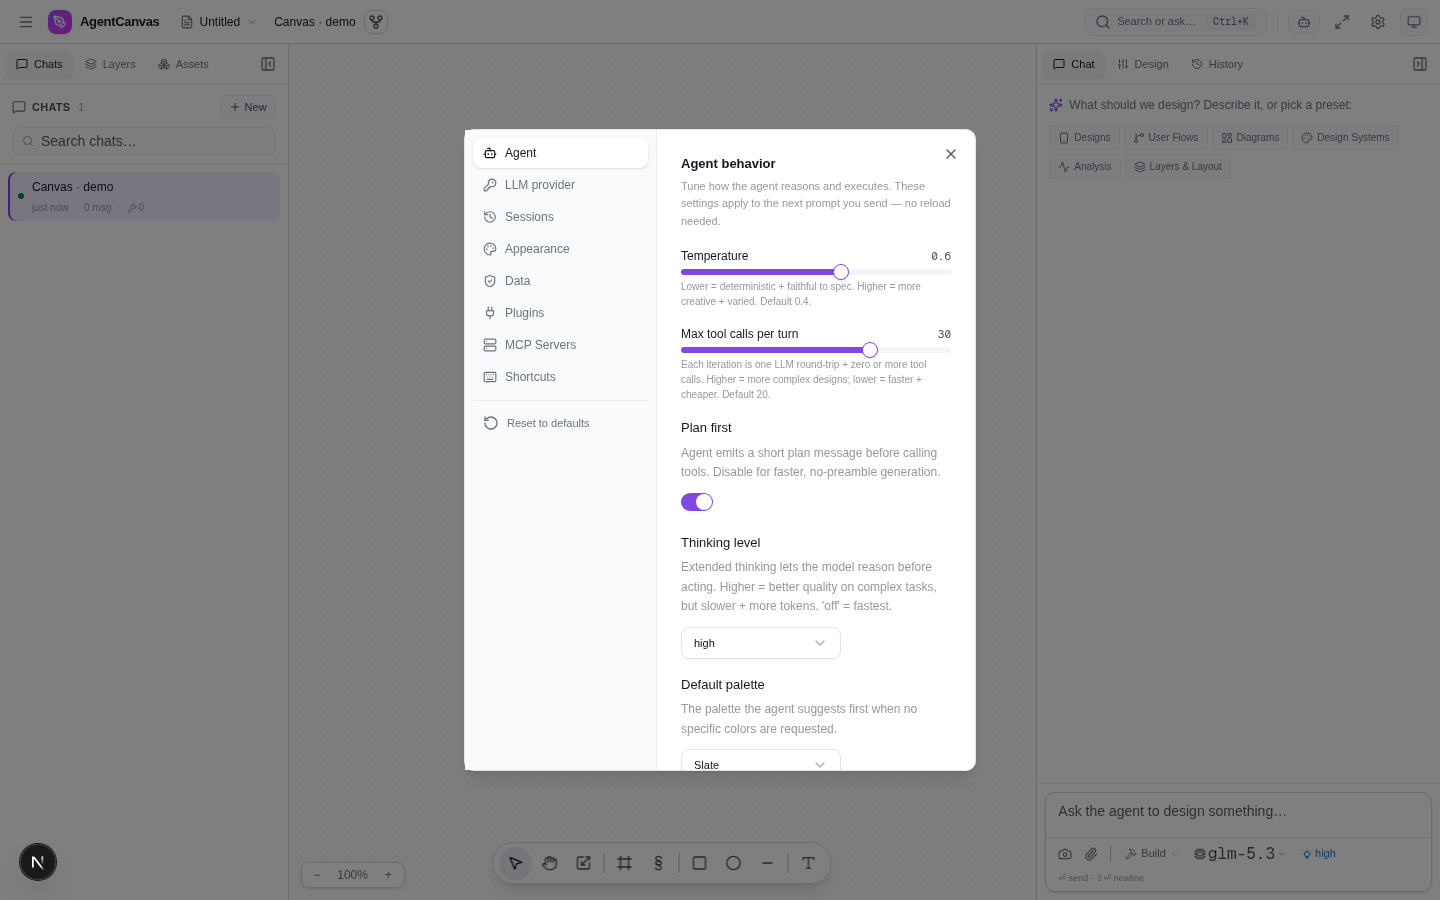
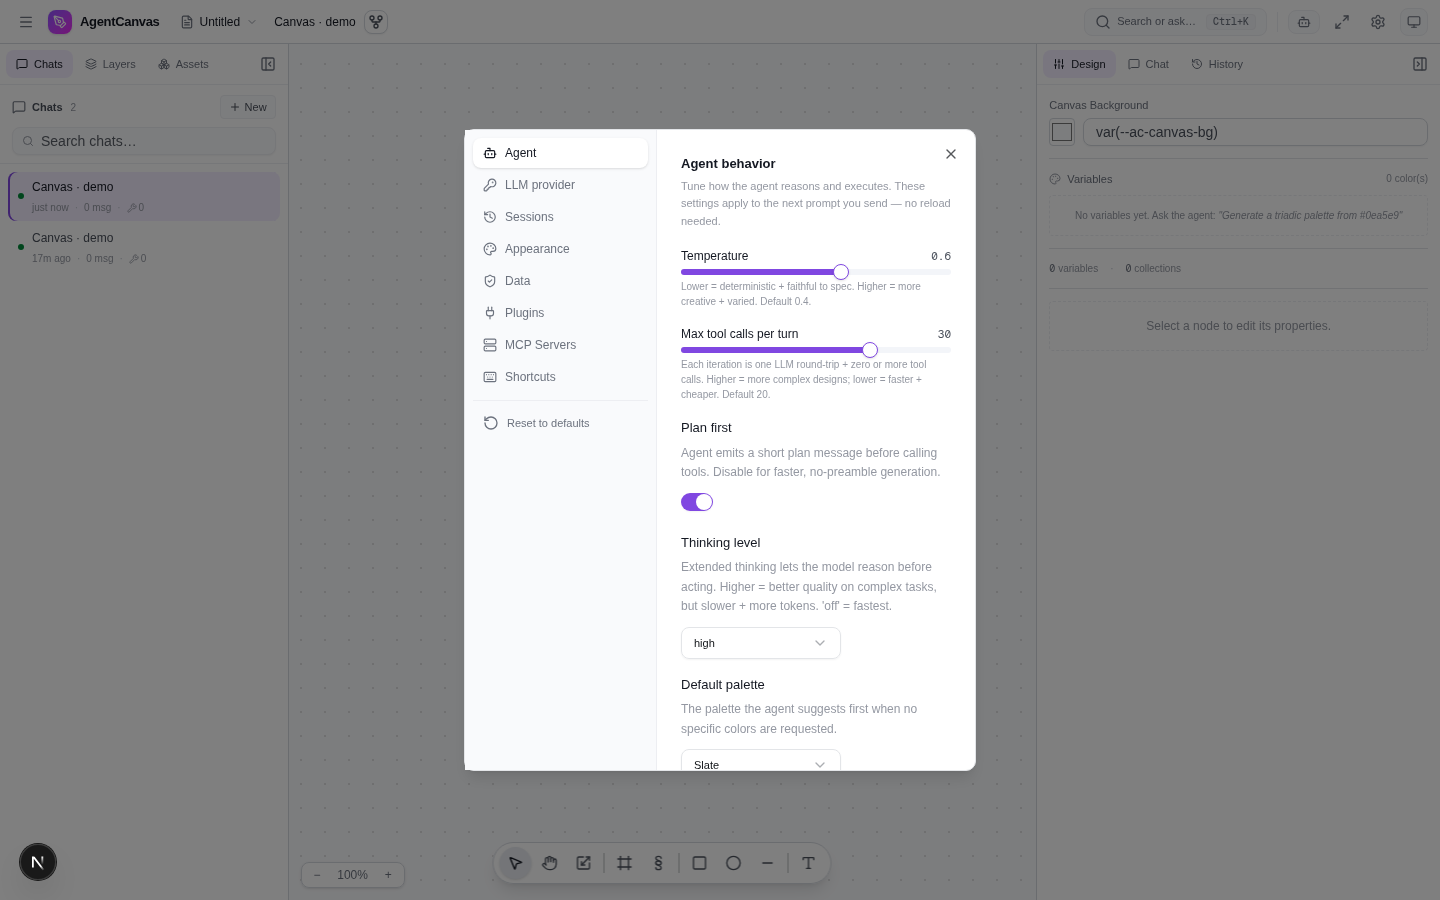
feat(sidebars): reorder right tabs Design-first + active-pill treatment + / focus shortcut
UI-audit round 3 (2026-09) — sidebar restructuring per Figma UI3 + Material 3
+ Refactoring UI + WAI-ARIA APG best practices. Researched via 3 parallel
subagents (Explore audit + general-purpose research + Explore docs audit).

Structural / IA changes:
- Reordered right sidebar tabs: Design -> Chat -> History (was Chat -> Design
  -> History). Default right tab is now Design (Figma UI3 consensus: design-
  first tools default to Design; Chat auto-activates when the agent starts
  streaming per the existing useEffect at page.tsx:328).
- Fixed misleading tooltip: right-tab chevron said "⌘3" but actual binding
  is ⌘2 (page.tsx:488).
- Renamed AppMenu "Toggle chat panel" -> "Toggle right panel" to match
  the post-round-2 3-tab structure (AppMenu.tsx:311).
- Wired the `/` chat-focus shortcut (Slack/Discord/Linear convention):
  added `chat.focus` action to the shortcuts registry (shortcuts.ts:477)
  + handler in page.tsx (lines 695, 762). Switches right panel to Chat +
  calls window.__focusAgentInput() on next tick.

Visual hierarchy / styling:
- Active-tab treatment: replaced ac-surface-2 + shadow-sm with Material 3
  "active indicator" pattern — bg-[var(--ac-accent-soft)] + ac-text-1 —
  applied consistently to ALL THREE tabstrips: left panel tabs, right panel
  tabs, History sub-tabs.
- Added ARIA role="tablist" + role="tab" + aria-selected to all three
  tabstrips for keyboard accessibility (WAI-ARIA APG tabs pattern).
[…]

diff --git a/src/app/page.tsx b/src/app/page.tsx
@@ -182,7 +182,7 @@ export default function Home() {
   // Active tab in the left column (Chats / Layers).
   const [leftTab, setLeftTab] = useState<LeftTab>('chats');
   // Active tab in the right column (Chat / Design / History).
-  const [rightTab, setRightTab] = useState<RightTab>('chat');
+  const [rightTab, setRightTab] = useState<RightTab>('design');
   // ⌘K command palette visibility.
   const [paletteOpen, setPaletteOpen] = useState(false);
   // Settings dialog visibility.
@@ -691,6 +691,8 @@ export default function Home() {
         'align.left', 'align.top', 'align.bottom', 'align.right',
         'align.hcenter', 'align.vcenter', 'flip.h', 'flip.v',
         'panel.layers-tab', 'panel.assets-tab',
+        // UI-audit round 3 (2026-09): `/` focuses the chat input.
+        'chat.focus',
       ]);
       if (plainAction) {
         e.preventDefault();
@@ -757,6 +759,19 @@ export default function Home() {
             // ⌥2 — switch the left column to Assets.
             setLeftTab('assets');
             break;
+          case 'chat.focus': {
+            // UI-audit round 3 (2026-09): `/` focuses the chat input.
+            // First switch the right panel to Chat (in case the user is on
+            // Design or History), then call the AgentPanel's registered
+            // focus hook on the next tick (so the panel has mounted).
+            if (rightTab !== 'chat') setRightTab('chat');
+            // Defer to next tick so the AgentPanel mounts before we focus.
+            setTimeout(() => {
+              const w = globalThis as unknown as { __focusAgentInput?: () => void };
+              if (typeof w.__focusAgentInput === 'function') w.__focusAgentInput();
+            }, 0);
+            break;
+          }
         }
         return;
       }
@@ -1195,29 +1210,35 @@ function LeftTabbedPanel({
   ];
   return (
     // @container (Tailwind v4) — the tab labels below collapse to icon-only
-    // when the column is narrower than ~13rem, so three tabs never truncate
-    // at 1024px viewports (UI-audit round 2 verification finding).
+    // when the column is narrower than ~12rem, so three tabs never truncate
+    // at 1024px viewports. UI-audit round 3 (2026-09): breakpoint aligned
+    // with the right column (was 13rem; both now 12rem) for consistent
+    // collapse behavior across sidebars.
     <div className={`@container flex flex-col h-full ac-surface-0 ac-hide-scrollbar overflow-hidden min-w-0 ${collapsed ? 'hidden' : ''}`}>
-      {/* Tab strip — also serves as the panel header (collapse chevron on the right) */}
+      {/* Tab strip — also serves as the panel header (collapse chevron on the right).
+          UI-audit round 3 (2026-09): active tab uses the Material 3 "active
+          indicator" pattern — full-width pill with --ac-accent-soft fill —
+          matching the right panel for consistency. */}
       <div className="flex items-center gap-1 px-1.5 py-1.5 border-b ac-border-subtle ac-surface-0 flex-shrink-0">
-        <div className="flex gap-0.5 flex-1 min-w-0">
+        <div className="flex gap-0.5 flex-1 min-w-0" role="tablist" aria-label="Left panel">
           {tabs.map((t) => {
             const Icon = t.icon;
             const active = tab === t.id;
             return (
               <button
                 key={t.id}
+                role="tab"
+                aria-selected={active}
                 onClick={() => onTabChange(t.id)}
                 title={t.label}
                 className={`flex items-center gap-1.5 px-2.5 h-7 rounded-md text-[11px] font-medium ac-transition ac-focus-ring ${
                   active
-                    ? 'ac-surface-2 ac-text-1 shadow-sm'
+                    ? 'bg-[var(--ac-accent-soft)] ac-text-1'
                     : 'ac-text-3 hover:ac-text-1 hover:ac-surface-1'
                 }`}
-                aria-pressed={active}
               >
                 <Icon className="h-3 w-3" />
-                <span className="hidden @min-[13rem]:inline">{t.label}</span>
+                <span className="hidden @min-[12rem]:inline">{t.label}</span>
               </button>
             );
           })}
@@ -1265,43 +1286,56 @@ function RightTabbedPanel({
   onToggleCollapse: () => void;
 }) {
   const tabs: { id: RightTab; label: string; icon: React.ComponentType<{ className?: string }> }[] = [
-    { id: 'chat',    label: 'Chat',    icon: MessageSquare },
+    // UI-audit round 3 (2026-09): reordered to Design → Chat → History per
+    // Figma UI3 consensus (design-first tools default to Design tab; Chat
+    // is still one click away and auto-activates when the agent starts
+    // streaming). Aligns with the auto-switch logic at line 328 + 352 which
+    // already moves users to the right tab for the right moment.
     { id: 'design',  label: 'Design',  icon: Sliders },
+    { id: 'chat',    label: 'Chat',    icon: MessageSquare },
     { id: 'history', label: 'History', icon: HistoryIcon },
   ];
   return (
     <div className={`@container flex flex-col h-full ac-surface-0 ac-hide-scrollbar overflow-hidden min-w-0 ${collapsed ? 'hidden' : ''}`}>
-      {/* Tab strip — also serves as the panel header (collapse chevron on the right) */}
+      {/* Tab strip — also serves as the panel header (collapse chevron on the right).
+          UI-audit round 3 (2026-09): active tab uses the Material 3 "active
+          indicator" pattern — full-width pill with --ac-accent-soft fill —
+          instead of the previous ac-surface-2 + shadow-sm. More legible at a
+          glance + consistent with the active-row treatment in sidebars. */}
       <div className="flex items-center gap-1 px-1.5 py-1.5 border-b ac-border-subtle ac-surface-0 flex-shrink-0">
-        <div className="flex gap-0.5 flex-1 min-w-0">
+        <div className="flex gap-0.5 flex-1 min-w-0" role="tablist" aria-label="Right panel">
           {tabs.map((t) => {
             const Icon = t.icon;
             const active = tab === t.id;
             return (
               <button
                 key={t.id}
+                role="tab"
+                aria-selected={active}
+                aria-controls={`right-tab-${t.id}`}
                 onClick={() => onTabChange(t.id)}
                 title={t.label}
                 className={`flex items-center gap-1.5 px-2.5 h-7 rounded-md text-[11px] font-medium ac-transition ac-focus-ring ${
                   active
-                    ? 'ac-surface-2 ac-text-1 shadow-sm'
+                    ? 'bg-[var(--ac-accent-soft)] ac-text-1'
                     : 'ac-text-3 hover:ac-text-1 hover:ac-surface-1'
                 }`}
-                aria-pressed={active}
               >
                 <Icon className="h-3 w-3" />
-                <span className="hidden @min-[11rem]:inline">{t.label}</span>
+                <span className="hidden @min-[12rem]:inline">{t.label}</span>
               </button>
             );
           })}
         </div>
 
-        {/* Collapse chevron on the panel header itself */}
+        {/* Collapse chevron on the panel header itself.
+            UI-audit round 3: fixed misleading tooltip (was ⌘3, actual
+            binding is ⌘2 per the keymap at line 488). */}
         <Button
           variant="ghost"
           size="sm"
           onClick={onToggleCollapse}
-          title="Toggle right panel (⌘3)"
+          title="Toggle right panel (⌘2)"
           aria-label="Toggle right panel"
           className="h-7 w-7 p-0 ac-text-3 hover:ac-text-1 hover:ac-surface-1 ac-transition ac-focus-ring flex-shrink-0"
         >
@@ -1309,10 +1343,14 @@ function RightTabbedPanel({
         </Button>
       </div>
 
-      {/* Active panel body — full vertical space */}
+      {/* Active panel body — full vertical space.
+          Conditional mounting (not hidden) preserves the original behavior
+          where switching tabs cleanly unmounts the previous panel — important
+          so the AgentPanel doesn't keep a stale scroll listener / draft
+          autosave timer running while the user is on Design or History. */}
       <div className="flex-1 min-h-0">
-        {tab === 'chat' && <AgentPanel />}
-        {tab === 'design' && <PropertiesPanel />}
+        {tab === 'design'  && <PropertiesPanel />}
+        {tab === 'chat'    && <AgentPanel />}
         {tab === 'history' && <RunHistoryPanel hideHeader />}
       </div>
     </div>

diff --git a/scripts/verify-chat-focus-shortcut.ts b/scripts/verify-chat-focus-shortcut.ts
@@ -1,0 +1,65 @@
+// Verify the `/` keyboard shortcut focuses the chat input.
+// Also verifies the right panel auto-switches to Chat when `/` is pressed
+// from the Design tab.
+
+import { chromium } from 'playwright-core';
+
+const BASE = process.env.BASE_URL ?? 'http://localhost:3000';
+
+async function main() {
+  const browser = await chromium.launch({
+    headless: true,
+    executablePath: '/home/z/.cache/ms-playwright/chromium-1234/chrome-linux64/chrome',
+    args: ['--no-sandbox', '--disable-setuid-sandbox', '--disable-dev-shm-usage'],
+  });
+  const context = await browser.newContext({
+    viewport: { width: 1440, height: 900 },
+    colorScheme: 'light',
+  });
+  const page = await context.newPage();
+  await page.goto(BASE, { waitUntil: 'networkidle', timeout: 60_000 });
+  await page.waitForSelector('text=AgentCanvas', { timeout: 30_000 });
+
+  // 1. Confirm default right tab is Design
+  const designTabActive = await page.locator('button[role="tab"]:has-text("Design")').first().getAttribute('aria-selected');
+  console.log('[1] Default right tab aria-selected (Design expected):', designTabActive);
+
+  // 2. Press `/` (no modifier) and verify the chat input gets focused
+  await page.keyboard.press('/');
+  await page.waitForTimeout(300); // allow tab switch + focus
+
+  // 3. The right panel should now be on Chat
+  const chatTabActive = await page.locator('button[role="tab"]:has-text("Chat")').first().getAttribute('aria-selected');
+  console.log('[2] After `/` press, Chat tab aria-selected (true expected):', chatTabActive);
+
+  // 4. Check that a textarea is focused
+  const activeEl = await page.evaluate(() => {
+    const el = document.activeElement;
+    return {
+      tag: el?.tagName ?? '',
+      isTextarea: el?.tagName === 'TEXTAREA',
+      placeholder: (el as HTMLTextAreaElement | null)?.placeholder ?? '',
+    };
+  });
+  console.log('[3] Active element after `/`:', JSON.stringify(activeEl));
+
+  // 5. Type something to confirm focus is real
+  await page.keyboard.type('test prompt');
+  await page.waitForTimeout(200);
+  const textareaValue = await page.locator('textarea').first().inputValue().catch(() => '');
+  console.log('[4] Textarea value after typing (expected "test prompt"):', JSON.stringify(textareaValue));
+
+  if (designTabActive === 'true' && chatTabActive === 'true' && activeEl.isTextarea && textareaValue === 'test prompt') {
+    console.log('\nALL CHAT-FOCUS SHORTCUT CHECKS PASSED');
+  } else {
+    console.log('\nFAIL — see above');
+    process.exit(1);
+  }
+
+  await browser.close();
+}
+
+main().catch((err) => {
+  console.error('CHAT-FOCUS VERIFY FAILED:', err instanceof Error ? err.message : err);
+  process.exit(1);
+});

diff --git a/src/components/sessions/RunHistoryPanel.tsx b/src/components/sessions/RunHistoryPanel.tsx
@@ -329,19 +329,27 @@ export function RunHistoryPanel({ hideHeader = false }: { hideHeader?: boolean }
         </div>
       )}
       {hideHeader && (
-        <div className="flex items-center gap-1 p-1.5 border-b ac-border-subtle ac-surface-1">
+        // UI-audit round 3 (2026-09): active sub-tab uses the same accent-soft
+        // pill treatment as the outer right-panel tab strip + the left-panel
+        // tab strip — three surfaces, one visual language. ARIA tablist for
+        // keyboard navigability.
+        <div className="flex items-center gap-1 p-1.5 border-b ac-border-subtle ac-surface-1" role="tablist" aria-label="History view">
           <button
+            role="tab"
+            aria-selected={tab === 'runs'}
             onClick={() => setTab('runs')}
-            className={`flex-1 px-2 py-1 rounded text-[10px] font-medium ac-transition ${
-              tab === 'runs' ? 'ac-surface-0 ac-text-1 shadow-sm' : 'ac-text-3 hover:ac-text-1'
+            className={`flex-1 px-2 py-1 rounded text-[10px] font-medium ac-transition ac-focus-ring ${
+              tab === 'runs' ? 'bg-[var(--ac-accent-soft)] ac-text-1' : 'ac-text-3 hover:ac-text-1 hover:ac-surface-2'
             }`}
           >
             Runs · {runs.length}
           </button>
           <button
+            role="tab"
+            aria-selected={tab === 'snapshots'}
             onClick={() => setTab('snapshots')}
-            className={`flex-1 px-2 py-1 rounded text-[10px] font-medium ac-transition ${
-              tab === 'snapshots' ? 'ac-surface-0 ac-text-1 shadow-sm' : 'ac-text-3 hover:ac-text-1'
+            className={`flex-1 px-2 py-1 rounded text-[10px] font-medium ac-transition ac-focus-ring ${
+              tab === 'snapshots' ? 'bg-[var(--ac-accent-soft)] ac-text-1' : 'ac-text-3 hover:ac-text-1 hover:ac-surface-2'
             }`}
           >
             Snapshots · {snapshots.length}

diff --git a/src/components/canvas/AppMenu.tsx b/src/components/canvas/AppMenu.tsx
@@ -306,10 +306,10 @@ export function AppMenu(props: AppMenuProps) {
           {/* ==== View ==== */}
           <DropdownMenuLabel className="ac-label">View</DropdownMenuLabel>
           <DropdownMenuItem onClick={props.onToggleLeftPanel}>
-            Toggle layers panel <DropdownMenuShortcut>{chord('toggle-left-panel')}</DropdownMenuShortcut>
+            Toggle left panel <DropdownMenuShortcut>{chord('toggle-left-panel')}</DropdownMenuShortcut>
           </DropdownMenuItem>
           <DropdownMenuItem onClick={props.onToggleRightPanel}>
-            Toggle chat panel <DropdownMenuShortcut>{chord('toggle-right-panel')}</DropdownMenuShortcut>
+            Toggle right panel <DropdownMenuShortcut>{chord('toggle-right-panel')}</DropdownMenuShortcut>
           </DropdownMenuItem>
           <DropdownMenuItem onClick={props.onToggleZen}>
             Toggle zen / UI <DropdownMenuShortcut>{chord('zen')}</DropdownMenuShortcut>

diff --git a/src/lib/canvas/shortcuts.ts b/src/lib/canvas/shortcuts.ts
@@ -474,6 +474,12 @@ export const SHORTCUTS: ShortcutDef[] = [
   // Layers tree ↔ the Assets component grid).
   { action: 'panel.layers-tab', label: 'Switch left sidebar to Layers tab', mac: '⌥1', win: 'Alt+1', scope: 'app' },
   { action: 'panel.assets-tab', label: 'Switch left sidebar to Assets tab', mac: '⌥2', win: 'Alt+2', scope: 'app' },
+  // UI-audit round 3 (2026-09): `/` focuses the chat input (Slack/Discord/
+  // Linear convention). Calls window.__focusAgentInput() which is registered
+  // by AgentPanel.tsx on mount. No-op if the AgentPanel isn't mounted (e.g.
+  // when the user is on the Design or History tab) — but the handler also
+  // switches the right panel to Chat first so the focus lands.
+  { action: 'chat.focus', label: 'Focus the chat input', mac: '/', win: '/', scope: 'app' },
   { action: 'delete', label: 'Delete selection', mac: '⌫', win: 'Del / Backspace', scope: 'canvas' },
 ];
 

diff --git a/src/components/sessions/SessionSidebar.tsx b/src/components/sessions/SessionSidebar.tsx
@@ -242,7 +242,10 @@ export const SessionSidebar = memo(function SessionSidebar() {
         <div className="flex items-center justify-between gap-2 mb-2">
           <div className="flex items-center gap-1.5 min-w-0">
             <MessageSquare className="h-3.5 w-3.5 ac-text-3 flex-shrink-0" />
-            <span className="text-[11px] font-semibold uppercase tracking-wide ac-text-2 truncate">Chats</span>
+            {/* UI-audit round 3 (2026-09): sentence case (not uppercase) per
+                Refactoring UI §3.3 — section headers in sidebars read better
+                as normal prose, not as overline labels. */}
+            <span className="text-[11px] font-semibold ac-text-2 truncate">Chats</span>
             {activeCount > 0 && (
               <span className="text-[10px] ac-text-4 ml-0.5">{activeCount}</span>
             )}

diff --git a/src/app/AGENTS.md b/src/app/AGENTS.md
@@ -7,7 +7,7 @@ The Next.js App Router entry point: the root layout, the main page (the 3-column
 ## Ownership
 
 - `layout.tsx` — root layout. Sets up `<html>`, `<body>`, font loading, theme provider, toaster. Owned by this folder.
-- `page.tsx` — the main page. Renders the 3-column tabbed layout: `LeftTabbedPanel (Chats/Layers) | Canvas | RightTabbedPanel (Chat/Design/History)`. Also renders the top header bar with brand, document name, session title, command palette, run/stop button, connection status, zen mode, .pen file menu, settings, and theme toggle.
+- `page.tsx` — the main page. Renders the 3-column tabbed layout: `LeftTabbedPanel (Chats/Layers/Assets) | Canvas | RightTabbedPanel (Design/Chat/History)`. Also renders the top header bar with brand, document name, session title, command palette, run/stop button, connection status, zen mode, .pen file menu, settings, and theme toggle.
 - `globals.css` — global styles + the `--ac-*` design token system. Owned by this folder; consumed by every component.
 
 ## Local Contracts
@@ -19,7 +19,7 @@ The Next.js App Router entry point: the root layout, the main page (the 3-column
 - Server component — do not add `'use client'` here.
 
 ### Page (`page.tsx`)
-- The layout is a **tabbed 3-column** split: `LeftTabbedPanel (Chats/Layers) | Canvas | RightTabbedPanel (Chat/Design/History)`. The previous 4-pane layout (sessions | layers | canvas | properties+chat+history) was decluttered into 3 columns with tabs.
+- The layout is a **tabbed 3-column** split: `LeftTabbedPanel (Chats/Layers/Assets) | Canvas | RightTabbedPanel (Design/Chat/History)`. The previous 4-pane layout (sessions | layers | canvas | properties+chat+history) was decluttered into 3 columns with tabs. UI-audit round 3 (2026-09) reordered the right sidebar tabs to **Design → Chat → History** (Figma UI3 consensus — design-first tools default to Design; Chat auto-activates when the agent starts streaming); the default right tab is now `Design` (was `Chat`).
 - Panels use `react-resizable-panels` v4 (`ResizablePanel` + `ResizableHandle`) with `collapsible` + `collapsedSize={0}`.
   - **v4 migration note**: the previous `autoSaveId="co-canvas-layout-h"` prop on the panel group is gone — v4 removed `autoSaveId` in favor of the `useDefaultLayout` hook. The hook returns `{ defaultLayout, onLayoutChanged }` which are passed to the `<ResizablePanelGroup>` (now backed by v4's `Group`).
   - **SSR safety**: `useDefaultLayout` defaults to `localStorage` for storage, which doesn't exist during SSR. We pass a `noopStorage` (`{ getItem: () => null, setItem: () => {} }`) initially, then swap to `window.localStorage` in a `useEffect` after mount. See `page.tsx` lines ~63–82.
@@ -29,7 +29,7 @@ The Next.js App Router entry point: the root layout, the main page (the 3-column
 - Top header shows: AppMenu button (single app menu — File/Edit/View/Insert/Object/Help sections; UI-audit round 2 replaced the classic 28px menubar), brand, SessionHeader (document switcher + inline-editable chat title + exception-only StatusBadge + icon-only Fork), ⌘K "Search or ask…" button (command palette: app commands + preset prompts; free-form text routes to the chat composer), Stop RunStopButton (busy only), connection status (single Bot chip — green dot when live-synced, viewer count when >1), Zen mode, Settings (gear), ThemeToggle. Zen mode hides the header + edge buttons; a floating "Exit zen" pill is the way back.
 - Keyboard shortcuts (non-meta shortcuts suppressed when typing in inputs/textareas):
   - **Panel toggles**: `⌘1`/`⌘⇧1` left panel, `⌘2`/`⌘⇧2` right panel
-  - **Navigation**: `⌘K` command palette, `⌘,` settings, `⌘\` zen mode, `⌘/` shortcuts dialog
+  - **Navigation**: `⌘K` command palette, `⌘,` settings, `⌘\` zen mode, `⌘/` shortcuts dialog, `/` focus chat input (switches right panel to Chat + focuses the textarea — Slack/Discord/Linear convention)
   - **Undo/redo**: `⌘Z` undo, `⌘⇧Z` redo
   - **Clipboard**: `⌘C` copy, `⌘V` paste (+24 offset), `⌘⇧V` paste in place, `⌘X` cut, `⌘A` select all
   - **Grouping**: `⌘G` group, `⌘⇧G` ungroup

diff --git a/README.md b/README.md
@@ -66,8 +66,9 @@ Think **Excalidraw + Figma + an AI pair designer**, running locally.
 
 ### 🎨 Full design tool, not just a toy
 - **Infinite HTML/DOM canvas** — pan (middle-mouse / space-drag), zoom (wheel), 8-handle resize, drag-move, delete-to-remove. Real divs per node, inline `<svg>` islands for vector primitives (path/star/polygon), browser-native CSS for `box-shadow` / `filter: blur()` / `border-radius` / flexbox auto-layout. L4 `content-visibility` culling + L5 mount culling for ≥2k nodes per page.
+- **3-pane workspace** — left sidebar (Chats / Layers / Assets tabs) · center canvas · right sidebar (Design / Chat / History tabs). Both sidebars resizable + collapsible (⌘1 / ⌘2). Active-tab pill uses the Material 3 "active indicator" pattern — full-width accent-soft fill — consistent across all three tabstrips. Right sidebar defaults to Design (Figma UI3 consensus); auto-switches to Chat when the agent starts streaming, and to Design when a shape is selected.
 - **Manual toolbar** — rectangle, ellipse, text, line, frame, group; select / pan / clear modes.
-- **Properties inspector** — geometry, fill/stroke, radius, opacity, rotation, text, Auto Layout editor, multi-select align/distribute.
+- **Properties inspector** (Design tab) — geometry, fill/stroke, radius, opacity, rotation, text, Auto Layout editor, multi-select align/distribute.
 - **Layers panel** — z-order, visibility, lock, component-instance badges, token-binding dots, right-click context menu.
 - **Design tokens** — named colors + text styles; bind shapes to tokens so changing a token recolors everything bound to it.
 - **Dark mode** — full `--ac-*` token system, switchable via the header toggle.
